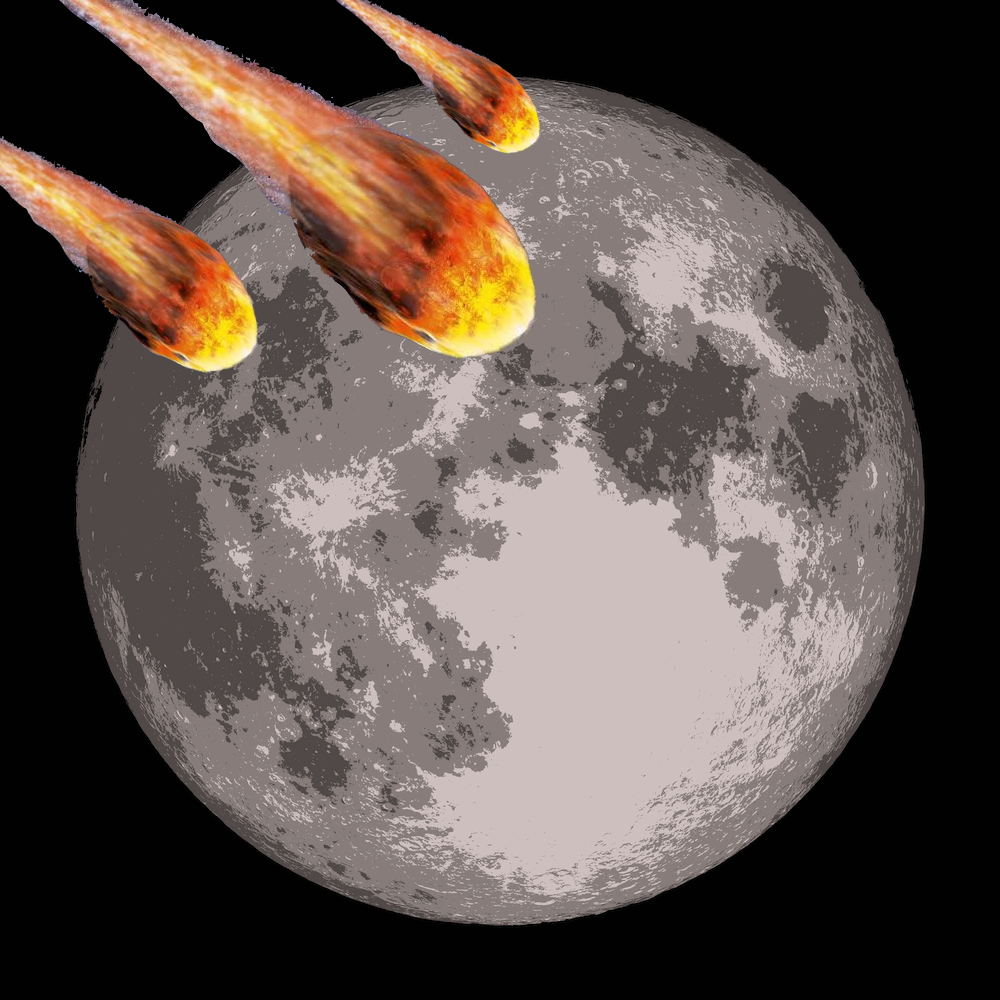
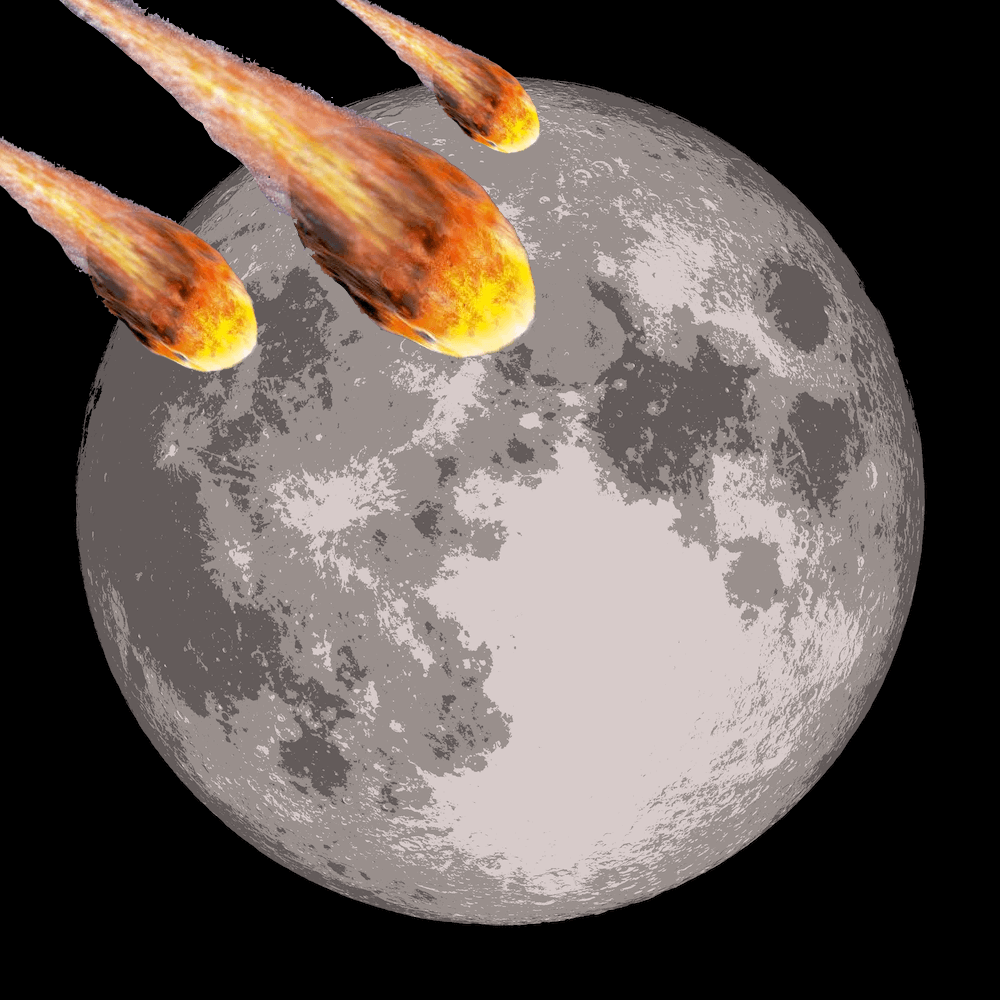
Compare

diff --git a/server/resources/js/components/score/score.tmpl.html b/server/resources/js/components/score/score.tmpl.html
@@ -17,48 +17,68 @@
         <div class="modal-dialog modal-lg" role="document">
             <div class="modal-content">
                 <div class="modal-body">
-                    <div class="text-center">
-                        <h1 class="m-0" ng-show="$ctrl.score > 1000">Well done!</h1>
-                        <h1 class="m-0" ng-show="$ctrl.score < 1000 && $ctrl.score > -1000">Nice try!</h1>
-                        <h1 class="m-0" ng-show="$ctrl.score < -1000">Bad luck!</h1>
-                    </div>
-                    <div class="text-center">
-                        <em>You scored {{ $ctrl.finalScore }}!</em>
-                        <div class="progress" ng-show="$ctrl.submittingScore && !$ctrl.submittedScore">
-                            <div class="progress-bar progress-bar-striped progress-bar-animated" role="progressbar" aria-valuenow="100" aria-valuemin="0" aria-valuemax="100" style="width: 100%"></div>
+                    <div ng-show="$ctrl.state == 'scores'">
+                        <div class="text-center">
+                            <h1 class="m-0" ng-show="$ctrl.score > 1000">Well done!</h1>
+                            <h1 class="m-0" ng-show="$ctrl.score < 1000 && $ctrl.score > -1000">Nice try!</h1>
+                            <h1 class="m-0" ng-show="$ctrl.score < -1000">Bad luck!</h1>
                         </div>
+                        <div class="text-center">
+                            <em>You scored {{ $ctrl.finalScore }}!</em>
+                            <div class="progress" ng-show="$ctrl.submittingScore && !$ctrl.submittedScore">
+                                <div class="progress-bar progress-bar-striped progress-bar-animated" role="progressbar" aria-valuenow="100" aria-valuemin="0" aria-valuemax="100" style="width: 100%"></div>
+                            </div>
 
-                        <div class="input-group mb-3" ng-show="!$ctrl.submittingScore && !$ctrl.submittedScore">
-                            <input type="text" class="form-control mr-4" placeholder="Your name..." ng-model="$ctrl.playerName">
-                            <div class="input-group-append">
-                                <button class="btn btn-primary g-btn-bg" ng-disabled="!$ctrl.playerName" type="button" ng-click="$ctrl.submitScore()">Submit score</button>
+                            <div class="input-group mb-3" ng-show="!$ctrl.submittingScore && !$ctrl.submittedScore">
+                                <input type="text" class="form-control mr-4" placeholder="Your name..." ng-model="$ctrl.playerName">
+                                <div class="input-group-append">
+                                    <button class="btn btn-primary g-btn-bg" ng-disabled="!$ctrl.playerName" type="button" ng-click="$ctrl.submitScore()">Submit score</button>
+                                </div>
                             </div>
                         </div>
+                        <div class="text-center" ng-show="$ctrl.highScores.length > 0">
+                            <h3>
+                                High scores
+                            </h3>
+                        </div>
+                        <div>
+                            <table class="table table-sm">
+                                <tr ng-repeat="highScore in $ctrl.highScores | orderBy: '-attributes.finalScore'" ng-class="{'table-success': highScore.attributes.new}">
+                                    <td style="width: 20%">{{ highScore.attributes.playerName }}</td>
+                                    <td style="width: 20%" class="g-number">{{ highScore.attributes.timeAgo }}</td>
+                                    <td style="width: 20%" class="g-number">
+                                        {{ $ctrl.getGrade(highScore) }}
+                                    </td style="width: 20%">
+                                    <td style="width: 20%" class="g-number">
+                                        {{ highScore.attributes.finalScore }}
+                                    </td style="width: 30%">
+                                    <td style="width: 10%" class="g-number">
+                                        <small class="text-success" ng-show="highScore.attributes.bonus > 0">+{{ highScore.attributes.bonus.toFixed() }}</small>
+                                    </td>
+                                </tr>
+                            </table>
+                        </div>
+                        <div class="text-center">
+                            <button type="button" class="btn btn-primary g-btn-bg mr-4" ng-click="$ctrl.state = 'compare'">Compare</button>
+                            <button type="button" class="btn btn-primary g-btn-bg" onclick="location.reload()">Try again</button>
+                        </div>
                     </div>
-                    <div class="text-center" ng-show="$ctrl.highScores.length > 0">
-                        <h3>
-                            High scores
-                        </h3>
-                    </div>
-                    <div>
-                        <table class="table table-sm">
-                            <tr ng-repeat="highScore in $ctrl.highScores | orderBy: '-attributes.finalScore'" ng-class="{'table-success': highScore.attributes.new}">
-                                <td style="width: 20%">{{ highScore.attributes.playerName }}</td>
-                                <td style="width: 20%" class="g-number">{{ highScore.attributes.timeAgo }}</td>
-                                <td style="width: 20%" class="g-number">
-                                    {{ $ctrl.getGrade(highScore) }}
-                                </td style="width: 20%">
-                                <td style="width: 20%" class="g-number">
-                                    {{ highScore.attributes.finalScore }}
-                                </td style="width: 30%">
-                                <td style="width: 10%" class="g-number">
-                                    <small class="text-success" ng-show="highScore.attributes.bonus > 0">+{{ highScore.attributes.bonus.toFixed() }}</small>
-                                </td>
-                            </tr>
-                        </table>
-                    </div>
-                    <div class="text-center">
-                        <button type="button" class="btn btn-primary g-btn-bg" onclick="location.reload()">Try again</button>
+
+                    <div ng-show="$ctrl.state == 'compare'">
+                        <div class="g-compare text-center">
+                            <h3>Compare your result</h3>
+                            <div class="img-comp-container">
+                                <div class="img-comp-img">
+                                    <canvas id="g-compare" width="400" height="400"></canvas>
+                                </div>
+                                <div class="img-comp-img img-comp-overlay">
+                                    <img ng-src="{{ $ctrl.level.attributes.actual }}" width="400" height="400" />
+                                </div>
+                            </div>
+                        </div>
+                        <div class="text-center">
+                            <button type="button" class="btn btn-primary g-btn-bg" ng-click="$ctrl.state = 'scores'">Back</button>
+                        </div>
                     </div>
                 </div>
             </div>

diff --git a/server/resources/js/components/score/image-compare.js b/server/resources/js/components/score/image-compare.js
@@ -1,0 +1,75 @@
+export default function initComparisons() {
+    var x, i;
+    /* Find all elements with an "overlay" class: */
+    x = document.getElementsByClassName("img-comp-overlay");
+    for (i = 0; i < x.length; i++) {
+        /* Once for each "overlay" element:
+        pass the "overlay" element as a parameter when executing the compareImages function: */
+        compareImages(x[i]);
+    }
+    function compareImages(img) {
+        var slider, img, clicked = 0;
+
+        /* Set the width of the img element to 50%: */
+        img.style.width = (400 / 2) + "px";
+        /* Create slider: */
+        slider = document.createElement("DIV");
+        slider.setAttribute("class", "img-comp-slider");
+        /* Insert slider */
+        img.parentElement.insertBefore(slider, img);
+        /* Position the slider in the middle: */
+        slider.style.top = (400 / 2) - (60 / 2) + "px";
+        slider.style.left = (400 / 2) - (60 / 2) + "px";
+        /* Execute a function when the mouse button is pressed: */
+        slider.addEventListener("mousedown", slideReady);
+        /* And another function when the mouse button is released: */
+        window.addEventListener("mouseup", slideFinish);
+        /* Or touched (for touch screens: */
+        slider.addEventListener("touchstart", slideReady);
+        /* And released (for touch screens: */
+        window.addEventListener("touchstop", slideFinish);
+        function slideReady(e) {
+            /* Prevent any other actions that may occur when moving over the image: */
+            e.preventDefault();
+            /* The slider is now clicked and ready to move: */
+            clicked = 1;
+            /* Execute a function when the slider is moved: */
+            window.addEventListener("mousemove", slideMove);
+            window.addEventListener("touchmove", slideMove);
+        }
+        function slideFinish() {
+            /* The slider is no longer clicked: */
+            clicked = 0;
+        }
+        function slideMove(e) {
+            var pos;
+            /* If the slider is no longer clicked, exit this function: */
+            if (clicked == 0) return false;
+            /* Get the cursor's x position: */
+            pos = getCursorPos(e)
+            /* Prevent the slider from being positioned outside the image: */
+            if (pos < 0) pos = 0;
+            if (pos > 400) pos = 400;
+            /* Execute a function that will resize the overlay image according to the cursor: */
+            slide(pos);
+        }
+        function getCursorPos(e) {
+            var a, x = 0;
+            e = e || window.event;
+            /* Get the x positions of the image: */
+            a = img.getBoundingClientRect();
+            /* Calculate the cursor's x coordinate, relative to the image: */
+            x = e.pageX - a.left;
+            /* Consider any page scrolling: */
+            x = x - window.pageXOffset;
+            return x;
+        }
+        function slide(x) {
+            /* Resize the image: */
+            img.style.width = x + "px";
+            /* Position the slider: */
+            slider.style.left = (x - 60 / 2) + "px";
+            console.log(x, 400 - x - 60 / 2);
+        }
+    }
+}

diff --git a/server/resources/sass/app.scss b/server/resources/sass/app.scss
@@ -5,8 +5,6 @@
 @import "common/mixins";
 @import "common/variables";
 
-@import "components/palette";
-
 @font-face {
     font-family: "digital-7";
     src: url("/fonts/digital-7-mono.ttf");
@@ -428,4 +426,55 @@ small {
 em {
     font-size: 40px;
     font-style: normal;
+}
+
+.g-compare {
+    position: relative;
+    #g-compare {
+        margin: auto;
+        width: 400px;
+        height: 400px;
+    }
+
+    img {
+        width: 400px;
+        height: 400px;
+    }
+
+    .img-comp-container {
+        position: relative;
+        margin-left: 117px;
+        margin-bottom: 1em;
+        width: 400px;
+        height: 400px;
+        outline: 1px solid #2196f3;
+    }
+
+    .img-comp-img {
+        position: absolute;
+        width: auto;
+        height: auto;
+        overflow: hidden;
+    }
+
+    .img-comp-img img {
+        display: block;
+        vertical-align: middle;
+    }
+
+    .img-comp-slider {
+        position: absolute;
+        z-index: 9;
+        cursor: ew-resize;
+        /*set the appearance of the slider:*/
+        width: 60px;
+        height: 60px;
+        background-image: url(/images/btn_left_right.png);
+        background-repeat: no-repeat;
+        background-size: contain;
+    }
+
+    .img-comp-overlay {
+        border-right: 1px solid #2196f3;
+    }
 }

diff --git a/server/resources/js/components/score/score.js b/server/resources/js/components/score/score.js
@@ -1,3 +1,5 @@
+import initComparisons from "./image-compare";
+
 const tmpl = require("./score.tmpl.html");
 
 const ScoreController = function (
@@ -8,6 +10,7 @@ const ScoreController = function (
     AudioService,
 ) {
     const $ctrl = this;
+    $ctrl.state = 'scores';
 
     let interval = null;
 
@@ -25,6 +28,15 @@ const ScoreController = function (
             backdrop: 'static',
             keyboard: false,
         });
+
+        const canvas = $('#g-compare').attr({
+            width: $('#g-canvas-canvas').attr('width'),
+            height: $('#g-canvas-canvas').attr('height'),
+        })
+        const context = canvas[0].getContext('2d');
+        context.drawImage($('#g-canvas-canvas')[0], 0, 0, $('#g-canvas-canvas').attr('width'), $('#g-canvas-canvas').attr('height'));
+        initComparisons();
+
         $('.g-score .modal').modal('show');
 
         $http.get('/api/high-score/fetch/' + $ctrl.level.id).then((response) => {

diff --git a/server/resources/js/components/canvas/canvas.js b/server/resources/js/components/canvas/canvas.js
@@ -153,7 +153,7 @@ const CanvasController = function (
             return;
         }
 
-        $ctrl.canvas = $element[0].querySelector('#g-canvas__canvas');
+        $ctrl.canvas = $element[0].querySelector('#g-canvas-canvas');
         $ctrl.context = $ctrl.canvas.getContext('2d');
 
         // Register event handlers

diff --git a/server/resources/js/components/canvas/canvas.tmpl.html b/server/resources/js/components/canvas/canvas.tmpl.html
@@ -1,7 +1,7 @@
 <div class="g-canvas">
     <div class="g-canvas-background" ng-show="$ctrl.level">
         <canvas
-            id="g-canvas__canvas"
+            id="g-canvas-canvas"
             ng-attr-width="{{ $ctrl.width }}"
             ng-attr-height="{{ $ctrl.height }}"
         ></canvas>
